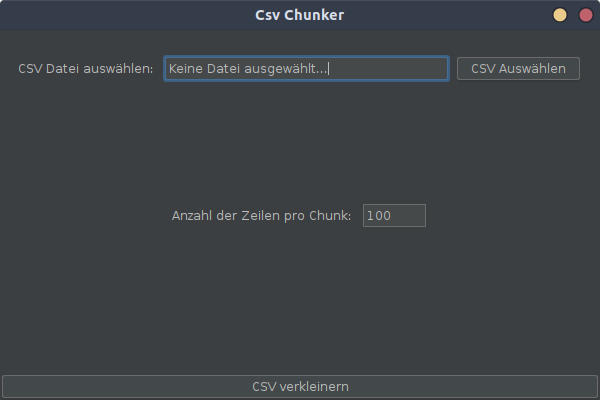
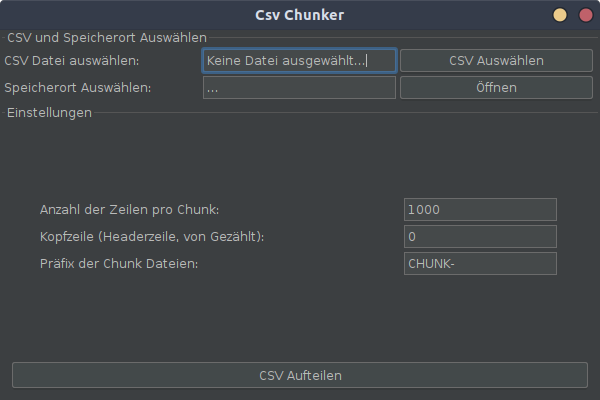
Update README

diff --git a/README.md b/README.md
@@ -5,10 +5,13 @@ Verkleinert CSV Dateien in kleinere Häppchen.
 
 ## Benutzung
 Über den Button "CSV Auswählen" die CSV Datei auswählen, anschließend
-kann die Anzahl der Zeilen pro Chunk file festgelegt werden.
+den Speicherort auswählen, in denen die verkleinerten CSV Dateien abgelegt werden.
 
-Die verkleinerten CSV Dateiein sind dann im selben Ordner wie die .jar und
-und fangen mit der Präfix "chunk-", gefolgt von einer Id und dem Dateinamen an.
+### Einstellungen
+Es können zusätzliche Einstellungen definiert werden, u.a.
+- **Anzahl der Zeilen Pro Chunk:** Wie viele Zeilen jeder Chunk hat (Default bei 1000)
+- **Kopfzeile**: In Welcher Zeile sich der Header befindet (wird in jeden Chunk anschließend reingeschrieben)
+- **Präfix**: Mit welcher Prefix die Chunk Dateinamen beginnen sollen (Default ist "Chunk")
 
 ## Kompilieren
 Das Projekt ganz normal mit Maven bauen. Falls es aufgrund von Signed Jars zu
